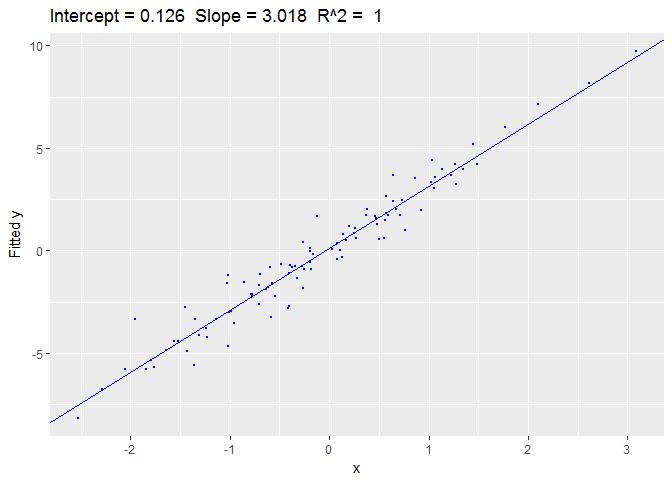
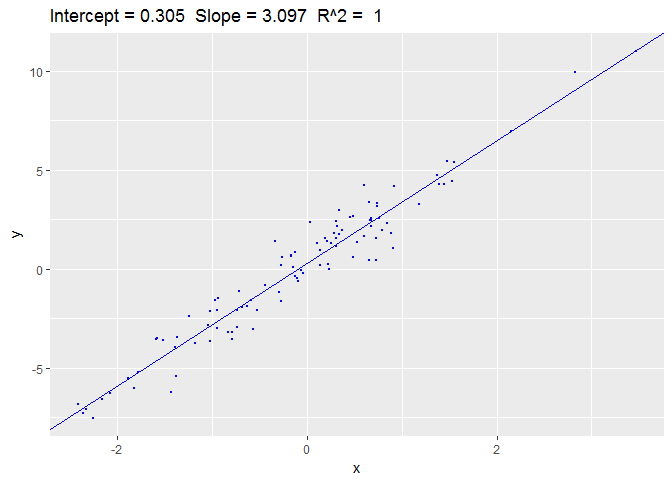
Heavy upgrade of the plot() function

diff --git a/README.md b/README.md
@@ -19,7 +19,7 @@ A short outline of the functions contained in the packages:
 
 -   summary.blm = function(object, ...) More extensive describtion of objects of class .blm
 
--   plot.blm = function(object,...) plots a fitted model, based on observed and fitted variables.
+-   plot.blm = function(object,fit = FALSE,newData = NULL,...) plots a fitted model, based on observed and fitted variables.
 
 -   fitted.blm = function(object, ...) Calculates the fitted response variables.
 
@@ -53,13 +53,19 @@ A short outline of the functions contained in the packages:
 <td align="left">print():</td>
 </tr>
 <tr class="odd">
-<td align="left">Plot():</td>
+<td align="left"><code>## Bayesian Linear Model: ## y ~ x ## ## Call: ## blm(y ~ x, alpha = covariance, beta = b, data = D) ## ## Fitted coefficients (mean): ## (Intercept)           x ##   0.3047124   3.0970965 ## ## Covariance: ##              (Intercept)            x ## (Intercept) 0.0077172470 0.0007249637 ## x           0.0007249637 0.0062822991</code></td>
 </tr>
 <tr class="even">
-<td align="left">A more extensive view of the fitted model is provided calling summary. The summary demonstrates the coefficients resulting from calling coef(object,..) and the sum of squared distance from observed to estimated response variable y:</td>
+<td align="left">Plot(): <img src="README_files/figure-markdown_github/plot-1.png" /></td>
 </tr>
 <tr class="odd">
+<td align="left">A more extensive view of the fitted model is provided calling summary. The summary demonstrates the coefficients resulting from calling coef(object,..) and the sum of squared distance from observed to estimated response variable y:</td>
+</tr>
+<tr class="even">
 <td align="left">Summary():</td>
+</tr>
+<tr class="odd">
+<td align="left"><code>## -------Summary Of Bayesian Linear Model------- ## ## Call: ## blm(y ~ x, alpha = covariance, beta = b, data = D) ## ## ----------------------------------------------------------------------- ## Sum of squared distance: ## 0 ## ----------------------------------------------------------------------- ## ## Coefficients (mean): ##              estimate ## (Intercept) 0.3047124 ## x           3.0970965 ## ## ## Covariance Matrix, Sigma: ##              (Intercept)            x ## (Intercept) 0.0077172470 0.0007249637 ## x           0.0007249637 0.0062822991 ## ----------------------------------------------------------------------- ## Data[1:10,]: ##             y          x ## 1  -7.0984926 -2.3277179 ## 2   3.2819136  1.1826251 ## 3  -1.4943932 -0.9419760 ## 4   1.0303605  0.9063254 ## 5   0.9610174  0.1345690 ## 6  -3.4549319 -1.3702037 ## 7  -3.5521563 -0.7958453 ## 8   0.1976728 -0.2750454 ## 9   5.4072098  1.5473990 ## 10  2.5627112  0.6751536</code></td>
 </tr>
 <tr class="even">
 <td align="left">The model can be used to predict target variables from new datasets, using the original posterior as a prior. A new dataset is introduced:</td>
@@ -68,6 +74,9 @@ A short outline of the functions contained in the packages:
 <td align="left">x = runif(100,-10,10) y = rnorm(n = 200, m = 0, 5) newD = data.frame(y=y, x=x)</td>
 </tr>
 <tr class="even">
+<td align="left"><code>##     Predicted value  variance ## 1         9.6221086 0.7829622 ## 2         1.1742266 0.7731855 ## 3        -1.4224027 0.7733634 ## 4        -5.1775870 0.7762680 ## 5         8.3950597 0.7805588 ## 6        -4.9333683 0.7759840 ## 7        -5.9099765 0.7771993 ## 8         6.5405640 0.7775606 ## 9        -6.6224670 0.7782196 ## 10       -4.0871775 0.7751021 ## 11       -4.7021665 0.7757272 ## 12        3.9536322 0.7746535 ## 13        6.6874767 0.7777703 ## 14        2.7099079 0.7737846 ## 15       -5.5905200 0.7767785 ## 16        0.5565563 0.7730922 ## 17        7.0349366 0.7782852 ## 18        5.7998553 0.7765764 ## 19        8.8748134 0.7814587 ## 20       -6.2026011 0.7776047 ## 21       -9.1044093 0.7826535 ## 22        1.6765080 0.7733239 ## 23       -6.7123819 0.7783563 ## 24       -8.0545890 0.7806111 ## 25        5.2734111 0.7759510 ## 26       -9.0758353 0.7825947 ## 27       -6.3151752 0.7777657 ## 28        7.4057078 0.7788643 ## 29       -0.4884882 0.7731271 ## 30       -3.7548977 0.7747993 ## 31        9.1675495 0.7820329 ## 32        9.4407320 0.7825859 ## 33        8.6003921 0.7809377 ## 34       -9.4503635 0.7833801 ## 35        1.5790469 0.7732926 ## 36        1.7796441 0.7733592 ## 37        2.0498008 0.7734629 ## 38       -4.5862150 0.7756030 ## 39        6.1265779 0.7769955 ## 40       -6.2239500 0.7776350 ## 41        1.4134177 0.7732444 ## 42       -6.4258954 0.7779268 ## 43        1.3582726 0.7732297 ## 44        6.3742228 0.7773290 ## 45       -2.7904072 0.7740591 ## 46       10.2883455 0.7844072 ## 47        0.9487834 0.7731416 ## 48       -1.7745546 0.7735028 ## 49        2.2254970 0.7735391 ## 50       -1.5038738 0.7733932 ## 51        6.3324871 0.7772718 ## 52       -3.4626546 0.7745532 ## 53       -2.3531553 0.7737916 ## 54       -0.3393078 0.7731073 ## 55        3.8721496 0.7745860 ## 56       -5.8316051 0.7770940 ## 57       10.0177375 0.7838084 ## 58       -0.1145442 0.7730867 ## 59        9.6070637 0.7829307 ## 60        0.4134078 0.7730826 ## 61        7.1708916 0.7784940 ## 62       -6.4527449 0.7779663 ## 63        8.6549343 0.7810399 ## 64        6.7466940 0.7778561 ## 65        7.1233712 0.7784206 ## 66       -0.7251852 0.7731687 ## 67       -3.8592407 0.7748917 ## 68       -3.5425331 0.7746186 ## 69       -6.2488085 0.7776705 ## 70       -8.8328452 0.7821017 ## 71        3.7659426 0.7745004 ## 72        9.7778092 0.7832911 ## 73       -4.8827009 0.7759267 ## 74        5.0021680 0.7756528 ## 75       -7.6391702 0.7798705 ## 76        1.2792928 0.7732098 ## 77        9.7177404 0.7831636 ## 78       -7.2056685 0.7791385 ## 79        7.8237775 0.7795538 ## 80       -9.7453896 0.7840208 ## 81        2.2855012 0.7735667 ## 82        1.1059984 0.7731710 ## 83       -3.0262021 0.7742210 ## 84        5.7492820 0.7765137 ## 85       -7.0323291 0.7788575 ## 86      -10.1341403 0.7848944 ## 87        0.4125430 0.7730826 ## 88       -1.4617130 0.7733776 ## 89        2.1853794 0.7735211 ## 90        7.1553320 0.7784699 ## 91       -5.6542658 0.7768606 ## 92        5.3371554 0.7760234 ## 93       -1.2543501 0.7733066 ## 94       -9.2023872 0.7828566 ## 95       -3.0986034 0.7742732 ## 96       -3.8769193 0.7749077 ## 97       -2.7489156 0.7740319 ## 98        5.8002202 0.7765769 ## 99       -2.6607296 0.7739753 ## 100      -3.6402425 0.7747005 ## 101       9.6221086 0.7829622 ## 102       1.1742266 0.7731855 ## 103      -1.4224027 0.7733634 ## 104      -5.1775870 0.7762680 ## 105       8.3950597 0.7805588 ## 106      -4.9333683 0.7759840 ## 107      -5.9099765 0.7771993 ## 108       6.5405640 0.7775606 ## 109      -6.6224670 0.7782196 ## 110      -4.0871775 0.7751021 ## 111      -4.7021665 0.7757272 ## 112       3.9536322 0.7746535 ## 113       6.6874767 0.7777703 ## 114       2.7099079 0.7737846 ## 115      -5.5905200 0.7767785 ## 116       0.5565563 0.7730922 ## 117       7.0349366 0.7782852 ## 118       5.7998553 0.7765764 ## 119       8.8748134 0.7814587 ## 120      -6.2026011 0.7776047 ## 121      -9.1044093 0.7826535 ## 122       1.6765080 0.7733239 ## 123      -6.7123819 0.7783563 ## 124      -8.0545890 0.7806111 ## 125       5.2734111 0.7759510 ## 126      -9.0758353 0.7825947 ## 127      -6.3151752 0.7777657 ## 128       7.4057078 0.7788643 ## 129      -0.4884882 0.7731271 ## 130      -3.7548977 0.7747993 ## 131       9.1675495 0.7820329 ## 132       9.4407320 0.7825859 ## 133       8.6003921 0.7809377 ## 134      -9.4503635 0.7833801 ## 135       1.5790469 0.7732926 ## 136       1.7796441 0.7733592 ## 137       2.0498008 0.7734629 ## 138      -4.5862150 0.7756030 ## 139       6.1265779 0.7769955 ## 140      -6.2239500 0.7776350 ## 141       1.4134177 0.7732444 ## 142      -6.4258954 0.7779268 ## 143       1.3582726 0.7732297 ## 144       6.3742228 0.7773290 ## 145      -2.7904072 0.7740591 ## 146      10.2883455 0.7844072 ## 147       0.9487834 0.7731416 ## 148      -1.7745546 0.7735028 ## 149       2.2254970 0.7735391 ## 150      -1.5038738 0.7733932 ## 151       6.3324871 0.7772718 ## 152      -3.4626546 0.7745532 ## 153      -2.3531553 0.7737916 ## 154      -0.3393078 0.7731073 ## 155       3.8721496 0.7745860 ## 156      -5.8316051 0.7770940 ## 157      10.0177375 0.7838084 ## 158      -0.1145442 0.7730867 ## 159       9.6070637 0.7829307 ## 160       0.4134078 0.7730826 ## 161       7.1708916 0.7784940 ## 162      -6.4527449 0.7779663 ## 163       8.6549343 0.7810399 ## 164       6.7466940 0.7778561 ## 165       7.1233712 0.7784206 ## 166      -0.7251852 0.7731687 ## 167      -3.8592407 0.7748917 ## 168      -3.5425331 0.7746186 ## 169      -6.2488085 0.7776705 ## 170      -8.8328452 0.7821017 ## 171       3.7659426 0.7745004 ## 172       9.7778092 0.7832911 ## 173      -4.8827009 0.7759267 ## 174       5.0021680 0.7756528 ## 175      -7.6391702 0.7798705 ## 176       1.2792928 0.7732098 ## 177       9.7177404 0.7831636 ## 178      -7.2056685 0.7791385 ## 179       7.8237775 0.7795538 ## 180      -9.7453896 0.7840208 ## 181       2.2855012 0.7735667 ## 182       1.1059984 0.7731710 ## 183      -3.0262021 0.7742210 ## 184       5.7492820 0.7765137 ## 185      -7.0323291 0.7788575 ## 186     -10.1341403 0.7848944 ## 187       0.4125430 0.7730826 ## 188      -1.4617130 0.7733776 ## 189       2.1853794 0.7735211 ## 190       7.1553320 0.7784699 ## 191      -5.6542658 0.7768606 ## 192       5.3371554 0.7760234 ## 193      -1.2543501 0.7733066 ## 194      -9.2023872 0.7828566 ## 195      -3.0986034 0.7742732 ## 196      -3.8769193 0.7749077 ## 197      -2.7489156 0.7740319 ## 198       5.8002202 0.7765769 ## 199      -2.6607296 0.7739753 ## 200      -3.6402425 0.7747005</code></td>
+</tr>
+<tr class="odd">
 <td align="left">This allows for continuous optimization of the model as more data (under the same formula) is introduced.</td>
 </tr>
 </tbody>
